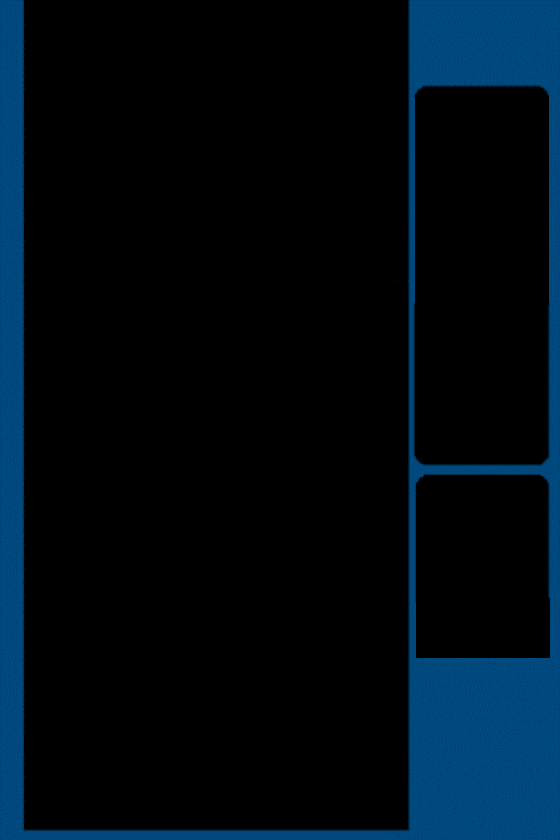
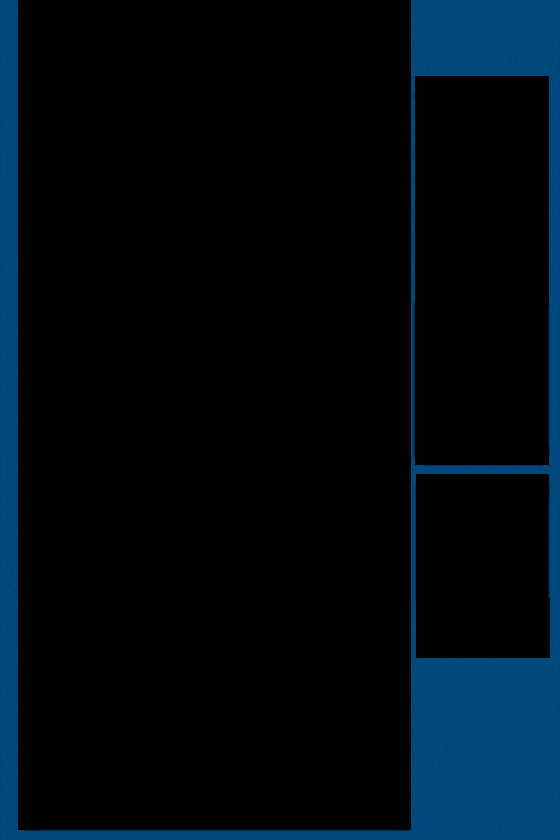
Added pause button

Changed region(s): [[0.7286, 0.0, 1.0, 0.9905], [0.0304, 0.0, 0.0607, 0.9905], [0.9714, 0.5262, 1.0, 0.5881]]

diff --git a/Game1.cs b/Game1.cs
@@ -6,6 +6,7 @@ using Tetris.Core;
 using MonoGame.EasyInput;
 using Microsoft.Xna.Framework.Input;
 using Tetris.Menus;
+using Tetris.Buttons;
 
 namespace Tetris
 {
@@ -99,8 +100,8 @@ namespace Tetris
             Globals.buttonTextures[(2, false)] = Content.Load<Texture2D>("buttons/music1");
             Globals.buttonTextures[(2, true)] = Content.Load<Texture2D>("buttons/music2");
             
-            Globals.buttonTextures[(3, false)] = Content.Load<Texture2D>("buttons/buttonnew1");
-            Globals.buttonTextures[(3, true)] = Content.Load<Texture2D>("buttons/buttonnew2");
+            Globals.buttonTextures[(3, false)] = Content.Load<Texture2D>("buttons/return1");
+            Globals.buttonTextures[(3, true)] = Content.Load<Texture2D>("buttons/return2");
 
             Globals.buttonTextures[(4, false)] = Content.Load<Texture2D>("buttons/exit1");
             Globals.buttonTextures[(4, true)] = Content.Load<Texture2D>("buttons/exit2");
@@ -108,12 +109,20 @@ namespace Tetris
             Globals.buttonTextures[(5, false)] = Content.Load<Texture2D>("buttons/buttonnew1");
             Globals.buttonTextures[(5, true)] = Content.Load<Texture2D>("buttons/buttonnew2");
 
+            Globals.buttonTextures[(6, false)] = Content.Load<Texture2D>("buttons/pause1");
+            Globals.buttonTextures[(6, true)] = Content.Load<Texture2D>("buttons/pause2");
+
 
 
             Globals.startMenu = new StartMenu();
             Globals.pauseMenu = new PauseMenu();
             Globals.optionsMenu = new OptionsMenu();
             Globals.startMenu.Enable();
+
+            Globals.scene.pauseButton = new PauseButton(new Vector2(300, 50));
+            Globals.scene.pauseButton.Enable();
+
+
 
             Globals.song = Content.Load<Song>("tetris");
             MediaPlayer.Play(Globals.song);
@@ -124,25 +133,15 @@ namespace Tetris
             Globals.keyboard.Update();
             Globals.mouse.Update();
 
-
             Globals.startMenu.Update();
             Globals.pauseMenu.Update();
             Globals.optionsMenu.Update();
 
 
-            if (Globals.state == GameState.gameRunning)
+            if (Globals.state == GameState.gameRunning && !Globals.scene.Update(gameTime))
             {
-                if(Globals.keyboard.ReleasedThisFrame(Keys.Escape))
-                {
-                    Globals.state = GameState.pauseMenu;
-                    Globals.pauseMenu.Enable();
-                    return;
-                } 
-                if(!Globals.scene.Update(gameTime))
-                {
-                    Globals.scene = new GameScene();
-                    Globals.state = GameState.startMenu;
-                }
+                Globals.scene = new GameScene();
+                Globals.state = GameState.startMenu;
             }
 
             if (Globals.ClickedMenuButton && Globals.mouse.IsReleased(MouseButtons.Left)) Globals.ClickedMenuButton = false;

diff --git a/Core/GameScene.cs b/Core/GameScene.cs
@@ -3,6 +3,7 @@ using Microsoft.Xna.Framework.Graphics;
 using Microsoft.Xna.Framework.Input;
 using Microsoft.Xna.Framework.Media;
 using System.Collections.Generic;
+using Tetris.Buttons;
 
 namespace Tetris.Core
 {
@@ -14,6 +15,8 @@ namespace Tetris.Core
 
         public Piece fallingPiece;
         Piece heldPiece;
+
+        public PauseButton pauseButton;
 
         double sinceMove = 0;
         bool initialized = false;
@@ -33,6 +36,8 @@ namespace Tetris.Core
             queue.Enqueue(new Piece(Globals.queueLastPos));
 
             fallingPiece = new Piece(Globals.startPos);
+
+            
 
             initialized = true;
 
@@ -144,10 +149,6 @@ namespace Tetris.Core
 
                     foreach (var piece in queue)
                     {
-                        //piece.squares.ForEach(delegate (Square square)
-                        //{
-                        //    if (square.GetPos().Y < i) square.Move(Piece.Direction.Up);
-                        //});
                         piece.Move(Piece.Direction.Up);
                     }
                 }
@@ -167,6 +168,7 @@ namespace Tetris.Core
                     if (!TakeNewPiece()) return false;
                 }
             }
+            pauseButton.Update();
             return true;
         }
         public bool IsTaken(Vector2 pos)
@@ -181,6 +183,7 @@ namespace Tetris.Core
         public void Draw(SpriteBatch spriteBatch)
         {
             squares.ForEach(delegate (Square item) { item.Draw(spriteBatch); });
+            pauseButton.Draw(spriteBatch);
         }
     }
 }

diff --git a/Core/Button.cs b/Core/Button.cs
@@ -11,15 +11,15 @@ namespace Tetris.Core
         protected bool hovered = false;
         protected int id;
         protected bool enabled = false;
-        protected Button()
+        protected Button(Vector2 arg)
         {
             Globals.mouse.OnMouseButtonPressed += OnClick; 
             texture = Globals.buttonTextures[(id, false)];
+            position = arg;
         }
         public void Draw(SpriteBatch spriteBatch)
         {
              spriteBatch.Draw(texture, position, Color.White);
-             //spriteBatch.DrawString(Globals.font, text, new Vector2((position.X + texture.Width / 2) - Globals.font.MeasureString(text).X / 2, position.Y + 5), Color.Black);
         }
         protected bool EnteredButton()
         {

diff --git a/Buttons/PlayButton.cs b/Buttons/PlayButton.cs
@@ -1,23 +1,19 @@
 using Microsoft.Xna.Framework;
-using MonoGame.EasyInput;
-using System;
-using System.Collections.Generic;
-using System.Text;
 using Tetris.Core;
 
 namespace Tetris.Buttons
 {
     public class PlayButton : Button
     {
-        public PlayButton(Vector2 arg)
+        public PlayButton(Vector2 arg) : base(arg)
         {
-            position = arg;
             id = 0;
         }
         protected override void Action()
         {
             Globals.state = GameState.gameRunning;
             Disable();
+            Globals.scene.pauseButton.Enable();
         }
     }
 }

diff --git a/Buttons/PauseButton.cs b/Buttons/PauseButton.cs
@@ -1,0 +1,20 @@
+using Microsoft.Xna.Framework;
+using Tetris.Core;
+
+namespace Tetris.Buttons
+{
+    public class PauseButton : Button
+    {
+        public PauseButton(Vector2 arg) : base(arg)
+        {
+            id = 6;
+        }
+        protected override void Action()
+        {
+            Globals.state = GameState.pauseMenu;
+            Globals.pauseMenu.Enable();
+            Disable();
+            Globals.scene.pauseButton.Disable();
+        }
+    }
+}

diff --git a/Buttons/ExitButton.cs b/Buttons/ExitButton.cs
@@ -1,15 +1,12 @@
 using Microsoft.Xna.Framework;
-using MonoGame.EasyInput;
-using System;
 using Tetris.Core;
-using Tetris;
+
 namespace Tetris.Buttons
 {
     public class ExitButton: Button
     {
-        public ExitButton(Vector2 arg)
+        public ExitButton(Vector2 arg) : base(arg)
         {
-            position = arg;
             id = 4;
         }
         protected override void Action()

diff --git a/Buttons/MusicVolumeButton.cs b/Buttons/MusicVolumeButton.cs
@@ -7,9 +7,8 @@ namespace Tetris.Buttons
 {
     internal class MusicVolumeButton : Button
     {
-        public MusicVolumeButton(Vector2 arg)
+        public MusicVolumeButton(Vector2 arg) : base(arg)
         {
-            position = arg;
             id = 5;
         }
         protected override void Action()

diff --git a/Buttons/MusicButton.cs b/Buttons/MusicButton.cs
@@ -6,9 +6,8 @@ namespace Tetris.Buttons
 {
     public class EnableMusicButton : Button
     {
-        public EnableMusicButton(Vector2 arg)
+        public EnableMusicButton(Vector2 arg) : base(arg)
         {
-            position = arg;
             id = 2;
         }
         protected override void Action()

diff --git a/Buttons/OptionsButton.cs b/Buttons/OptionsButton.cs
@@ -6,9 +6,8 @@ namespace Tetris.Buttons
 {
     public class OptionsButton: Button
     {
-        public OptionsButton(Vector2 arg)
+        public OptionsButton(Vector2 arg) : base(arg)
         {
-            position = arg;
             id = 1;
         }
         protected override void Action()

diff --git a/Buttons/ReturnButton.cs b/Buttons/ReturnButton.cs
@@ -6,9 +6,8 @@ namespace Tetris.Menus
 {
     class ReturnButton : Button
     {
-        public ReturnButton(Vector2 arg)
+        public ReturnButton(Vector2 arg) : base(arg)
         {
-            position = arg;
             id = 3;
         }
         protected override void Action()
